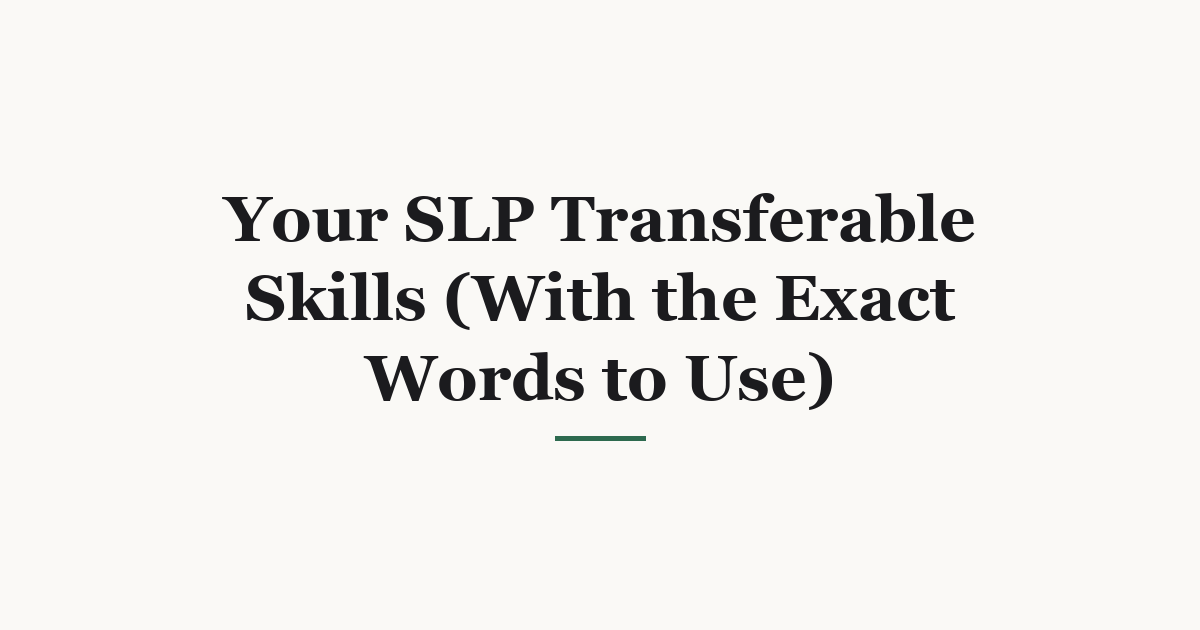
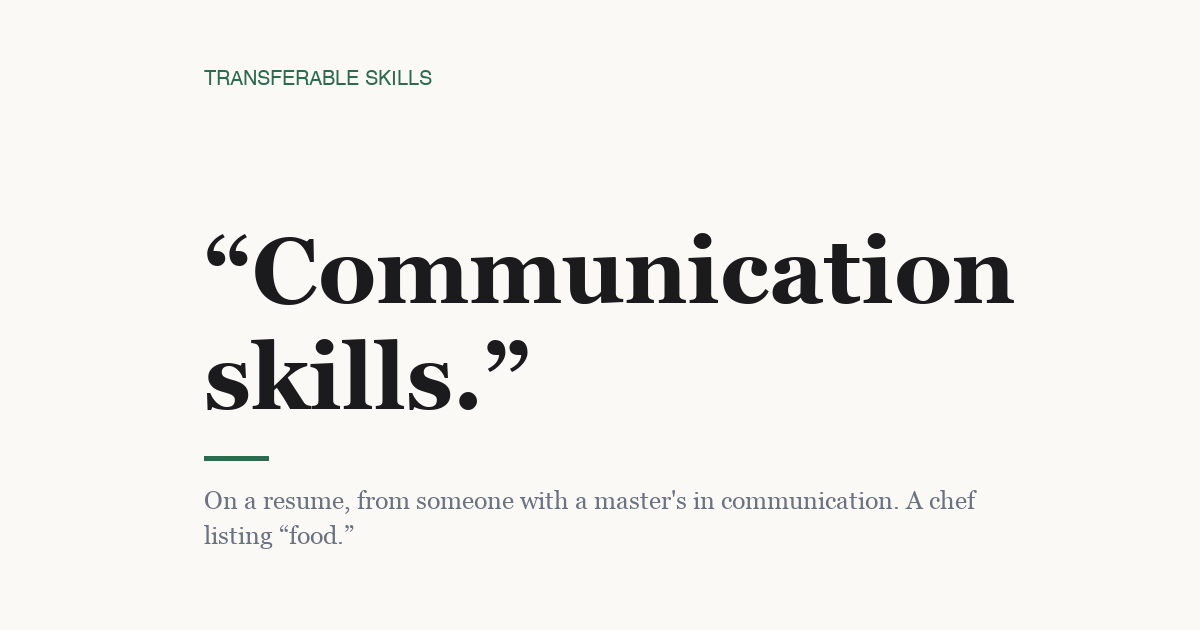
Stat-led headers for the guide posts; homepage split into two curated grids
The guide headers printed the post title, which read as a stutter once the
image sat directly above the card title in a grid. They now carry a verified
fact the headline doesn't -- 7.4 seconds, 'spotted in 20 seconds', 'bad
workplace, bad fit, or bad season?'. Every stat traces to research-facts.md;
the cover-letter one was changed from a 62% figure because that stat is about
resumes specifically and generalising it to cover letters overstated it.

Homepage (WordPress, not this repo): the single chronological post grid meant
12 interviews published in one day evicted every practical guide and the
flagship pillar. Replaced with 'Start here' (flagship + 5 guides, pinned by
category) and 'Real transitions' (3 older interviews + 3 new), plus a Browse
every article link. Added a /blog archive -- there had never been one, so 29
posts had no index -- and a Blog nav item.

diff --git a/scripts/make_guide_header.py b/scripts/make_guide_header.py
@@ -1,0 +1,109 @@
+#!/usr/bin/env python3
+"""Stat-led 1200x630 header template for the guide posts.
+
+The original guide headers printed the post title, which reads as a stutter
+once the image sits directly above the card title in a post grid. These carry
+a verified fact instead, so the image adds information the headline doesn't.
+
+Every `stat` and `sub` below must trace to content/research-facts.md or to a
+figure already stated in the post itself.
+"""
+import os
+from PIL import Image, ImageDraw, ImageFont
+
+W, H = 1200, 630
+CREAM = (250, 249, 246)
+DARK = (27, 27, 30)
+GREEN = (45, 106, 79)
+MUTED = (107, 114, 128)
+
+GB = "/System/Library/Fonts/Supplemental/Georgia Bold.ttf"
+G = "/System/Library/Fonts/Supplemental/Georgia.ttf"
+HELV = "/System/Library/Fonts/Helvetica.ttc"
+
+# Same safe zone as the guest headers: the single-post hero crops ~10.6% per side.
+SAFE_W = int(W * 0.66)
+SAFE_LEFT = (W - SAFE_W) // 2
+
+
+def wrap(d, text, font, max_w):
+    words, lines, cur = text.split(), [], ""
+    for w_ in words:
+        t = (cur + " " + w_).strip()
+        if d.textlength(t, font=font) <= max_w:
+            cur = t
+        else:
+            lines.append(cur)
+            cur = w_
+    lines.append(cur)
+    return lines
+
+
+def make(kicker, stat, sub, out_path):
+    img = Image.new("RGB", (W, H), CREAM)
+    d = ImageDraw.Draw(img)
+
+    # auto-fit the stat line (it's the hero element)
+    for size in range(92, 34, -3):
+        sf = ImageFont.truetype(GB, size)
+        stat_lines = wrap(d, stat, sf, SAFE_W)
+        if len(stat_lines) <= 3:
+            break
+    stat_lh = int(size * 1.16)
+
+    subf = ImageFont.truetype(G, 25)
+    sub_lines = wrap(d, sub, subf, SAFE_W)[:3]
+    sub_lh = 35
+
+    kf = ImageFont.truetype(HELV, 20)
+    kicker_h = 27
+    # Georgia's descenders hang well below the baseline, so the rule needs real
+    # clearance or it reads as an underline on the last line's first glyph.
+    pre_rule, post_rule = 26, 30
+
+    block = (kicker_h + 16 + len(stat_lines) * stat_lh
+             + pre_rule + 4 + post_rule + len(sub_lines) * sub_lh)
+    y = (H - block) // 2
+
+    d.text((SAFE_LEFT, y), kicker.upper(), font=kf, fill=GREEN)
+    y += kicker_h + 16
+
+    for ln in stat_lines:
+        d.text((SAFE_LEFT, y), ln, font=sf, fill=DARK)
+        y += stat_lh
+
+    y += pre_rule
+    d.rectangle((SAFE_LEFT, y, SAFE_LEFT + 64, y + 4), fill=GREEN)
+    y += post_rule
+
+    for ln in sub_lines:
+        d.text((SAFE_LEFT, y), ln, font=subf, fill=MUTED)
+        y += sub_lh
+
+    img.save(out_path, optimize=True)
+    print(f"wrote {out_path}")
+
+
+GUIDES = [
+    # slug, kicker, stat (the hero fact), supporting line
+    ("01-slp-resume-non-clinical", "Resume", "7.4 seconds",
+     "That's the first pass a recruiter gives your resume before deciding."),
+    ("03-slp-transferable-skills", "Transferable skills", "“Communication skills.”",
+     "On a resume, from someone with a master's in communication. A chef listing “food.”"),
+    ("07-should-you-quit-slp", "Deciding", "Bad workplace, bad fit, or bad season?",
+     "Three different problems. Only one of them means quitting."),
+    ("09-slp-cover-letter-non-clinical", "Cover letters", "Spotted in 20 seconds",
+     "33.5% of employers say that's all it takes to tell AI wrote it."),
+    ("10-slp-linkedin-career-change", "LinkedIn", "They check before they call",
+     "If your profile still reads clinical, it contradicts the resume you just fixed."),
+]
+
+if __name__ == "__main__":
+    import sys
+    ROOT = "/Users/jamesberges/Desktop/SLP Career Suite : Resume Tool"
+    OUT = os.path.join(ROOT, "content/blog-images")
+    only = sys.argv[1] if len(sys.argv) > 1 else None
+    for slug, kicker, stat, sub in GUIDES:
+        if only and only not in slug:
+            continue
+        make(kicker, stat, sub, os.path.join(OUT, f"{slug}.png"))
